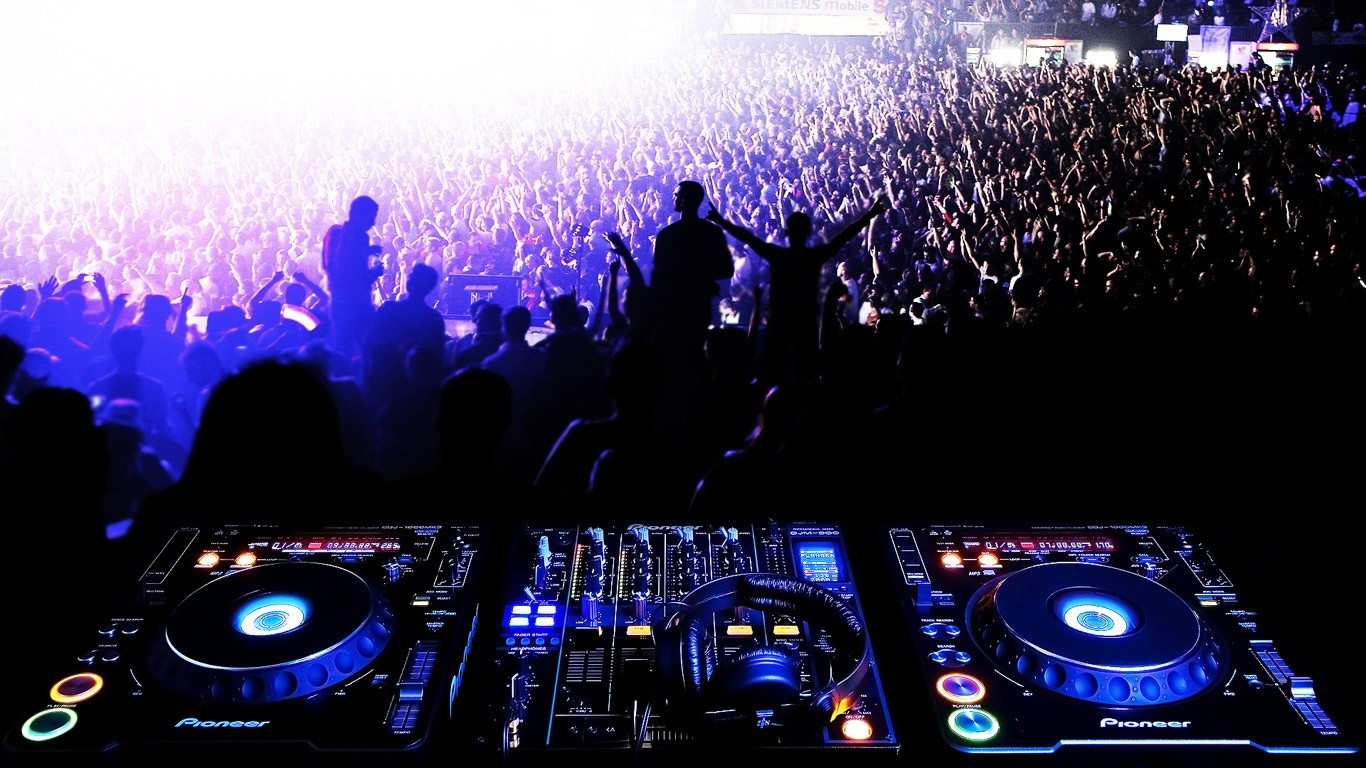
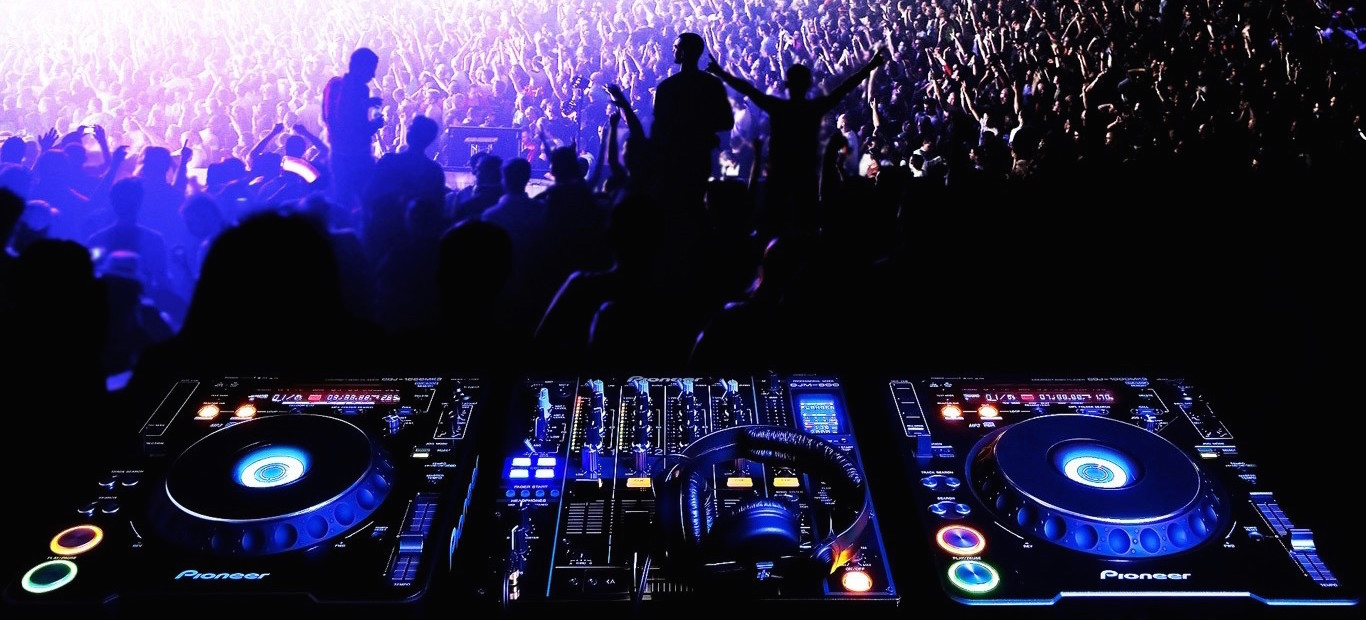
deleted unused images and updated landing page formatting

diff --git a/client/src/landingPage/landingPageBody.jsx b/client/src/landingPage/landingPageBody.jsx
@@ -30,14 +30,14 @@ var LandingPageBody = React.createClass({
           <div className="container">
             <div className="row">
                 <div className="col-lg-12">
-                  <div className="intro-message j-padding-top-15-percent">
+                  <div className="intro-message j-padding-top-30-percent">
                     <h1>piTunes</h1>
                     <h3 className="j-font-uppercase">Listen to music with the people you love</h3>
                     <hr className="intro-divider"></hr>
                     <ul className="list-inline intro-social-buttons">
                       {signIn}
                       <li>
-                        <a href="/#rooms" className="btn btn-default btn-lg" id="landing-joinroom"><i className="fa fa-music fa-fw"></i><span className="network-name">Join Room</span></a>
+                        <a href="/#rooms" className="btn btn-default btn-lg" id="landing-joinroom"><i className="fa fa-music fa-fw"></i><span className="network-name">Start Listening!</span></a>
                       </li>
                       {signUp}
                     </ul>

diff --git a/client/assets/css/styles.css b/client/assets/css/styles.css
@@ -3,7 +3,9 @@
  * Code licensed under the Apache License v2.0.
  * For details, see http://www.apache.org/licenses/LICENSE-2.0.
  */
-
+html {
+    overflow: hidden;
+}
 body,
 html {
     width: 100%;
@@ -54,7 +56,7 @@ h6 {
     color: #F8F8F8;
     background: url(../img/dj.jpg) no-repeat center center;
     background-size: cover;
-    height: 120vh;
+    height: 100vh;
 }
 
 .intro-message > h1 {
@@ -229,8 +231,8 @@ p.copyright {
     text-align: center;
 }
 
-.j-padding-top-15-percent {
-    padding-top: 15%;
+.j-padding-top-30-percent {
+    padding-top: 20%;
 }
 
 div.placeholder {
@@ -246,8 +248,8 @@ div.placeholder:before {
 .j-createRoom-button {
     position: fixed;
     z-index: 1;
-    padding-top: 60px;
-    left: 42%;
+    padding-top: 50px;
+    right: 0%;
 }
 
 .j-rooms-padding-top {

diff --git a/client/src/landingPage/landingPageContainer.jsx b/client/src/landingPage/landingPageContainer.jsx
@@ -5,9 +5,14 @@ var LandingPagePopularRooms = require('./landingPagePopularRooms.jsx');
 
 var LandingPageContainer = React.createClass({
   render: function() {
+    var style = {
+      opacity: 0.01,
+    };
     return (
       <div>
-        <NavigationController app={this.props.app}/>
+        <div style={style}>
+        <NavigationController app={this.props.app} />
+        </div>
         <LandingPageBody app={this.props.app}/>
         <LandingPagePopularRooms />
       </div>

diff --git a/client/assets/css/bootstrap.css b/client/assets/css/bootstrap.css
@@ -6224,7 +6224,7 @@ button.close {
   z-index: 15;
   width: 60%;
   padding-left: 0;
-  margin-left: -30%;
+  margin-left: -20%;
   text-align: center;
   list-style: none;
 }
